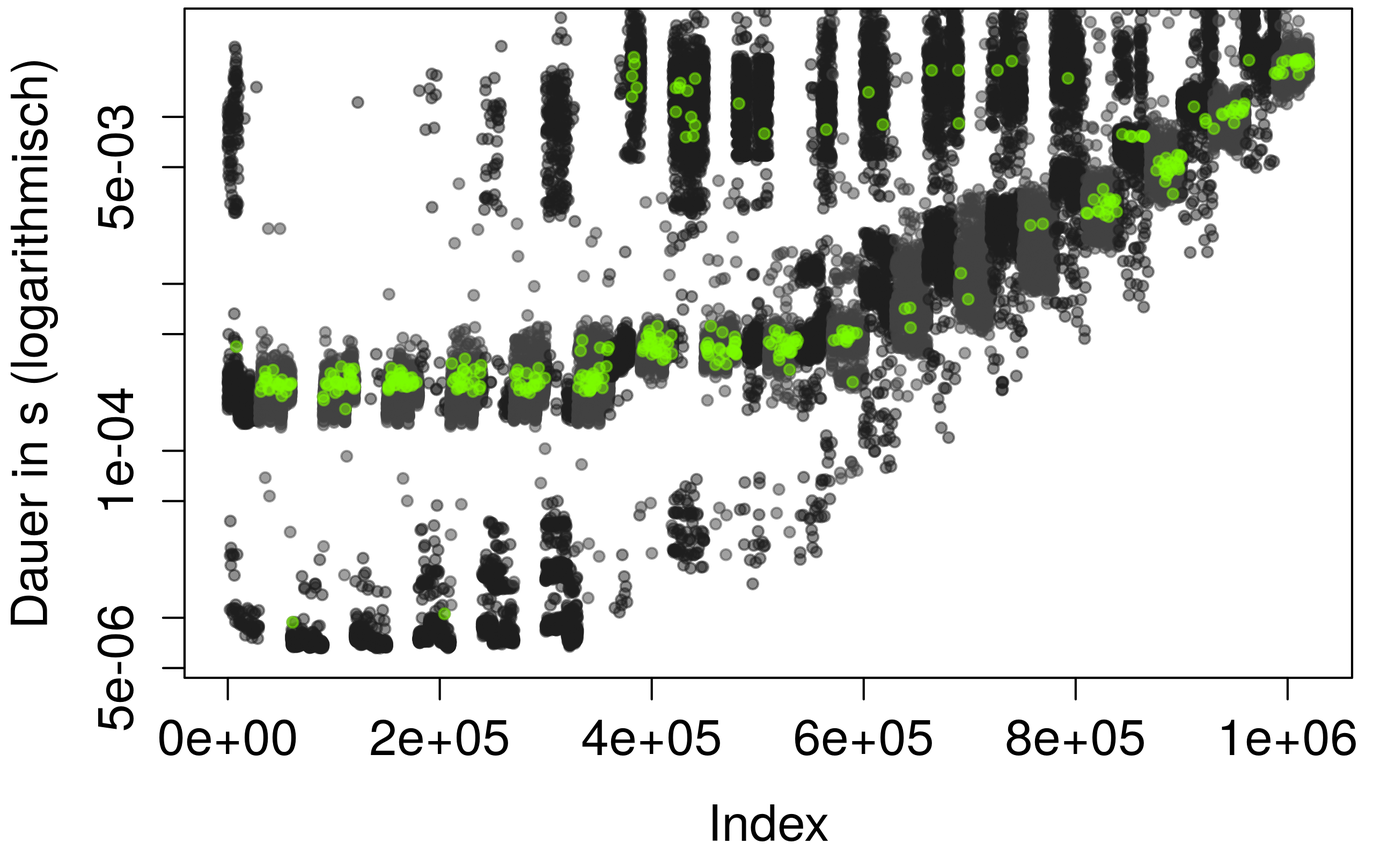
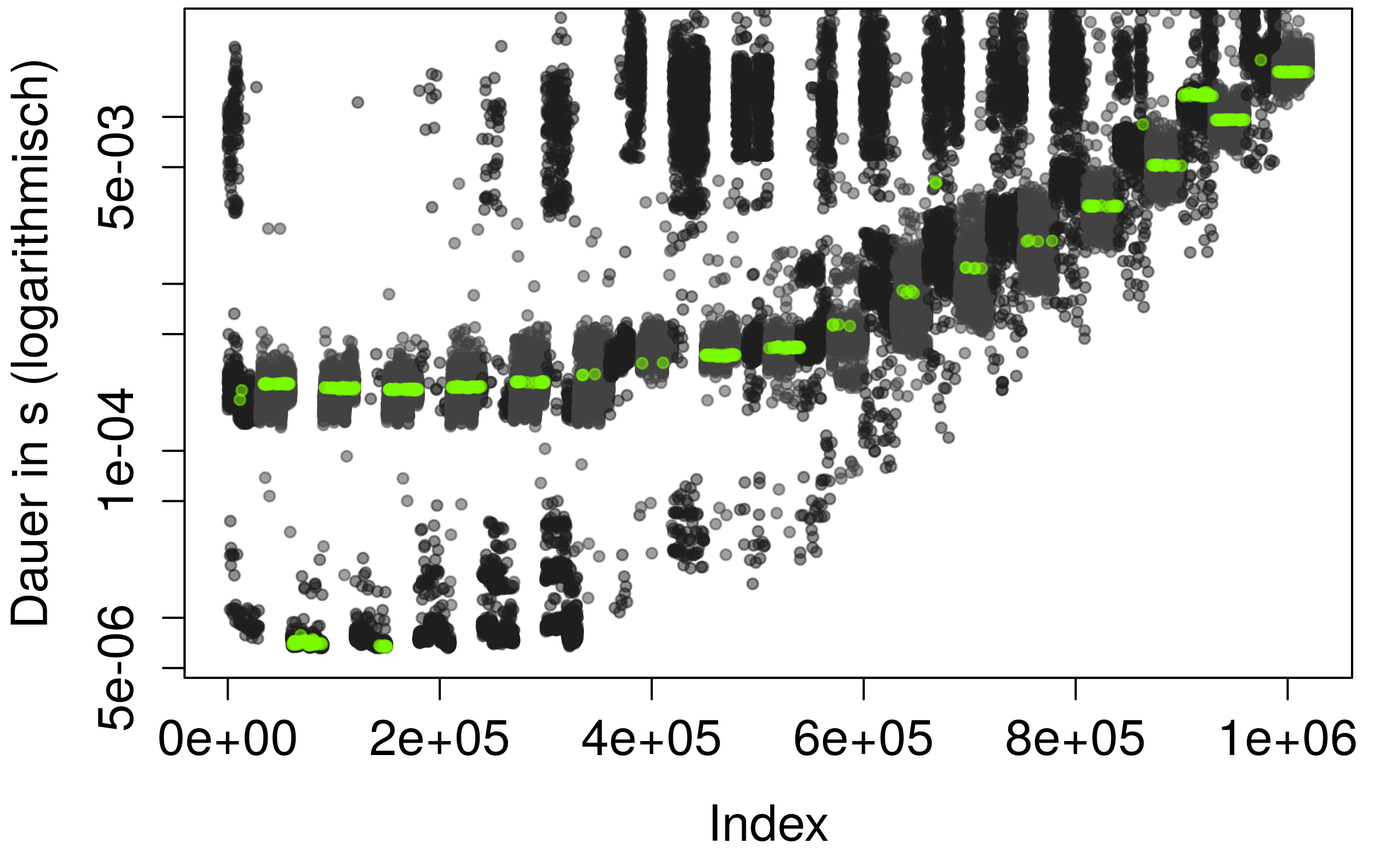
eval die dritte

diff --git a/Thesis/bericht.tex b/Thesis/bericht.tex
@@ -1548,7 +1548,7 @@ Informationen über die Struktur der gefundenen Netze und den Aufwand des Traini
 	\item In Tabelle \ref{tab:results} sind für alle NN-Modelle die Werte der verschiedenen Fehlermetriken angegeben, zusätzlich sind zum Vergleich die Referenzmodelle \textit{Durchschnitt}, \textit{LinReg G} angewendet auf individuelle Messungen und \textit{LinRegFK Median agg} aufgelistet.
 	\item Die Tabelle \ref{tab:outlier} wird für die Analyse der Ausreißervorhersage betrachtet. In der Tabelle sind alle beschriebenen Fehlermetriken zu den NN-Modellen auf SEQ angegeben. Wie bereits beschrieben wurde, gibt es bei den Messungen mit zufälligen Dateizugriffen zu wenig Messungen pro Attribut-Tupel um die Ausreißervorhersage auf diesen Daten sinnvoll zu betrachten.
 \end{itemize}
-Im Folgenden werden zunächst einige allgemeine Beobachtungen zu verschiedenen Bereichen auf den Testergebnissen geschildert, dann wird gesondert auf die Erkenntnisse über die zeitliche Abhängigkeit der E/A-Anfragen im System eingegangen und zuletzt werden die Ergebnisse von den Modellen \textit{NN-Tupel1} und \textit{NN-LinRegFK} im Detail betrachtet.
+Im Folgenden werden zunächst einige Beobachtungen zu verschiedenen Bereichen auf den Testergebnissen geschildert, dann werden im Detail die Ergebnisse von den Modellen \textit{NN-Tupel1} und \textit{NN-LinRegFK} betrachtet.
 
 \begin{table}
 	\scriptsize
@@ -1612,38 +1612,84 @@ Im Folgenden werden zunächst einige allgemeine Beobachtungen zu verschiedenen B
 	\label{tab:outlier}
 \end{table}
 
-\subsubsection{Allgemeine Betrachtungen zu den Ergebnissen}
-Hier sollen zunächst drei Beobachtungen in den erhaltenen Ergebnissen beschrieben werden.
-Zum einen die Struktur der erhaltenen neuronalen Netze und deren Zusammenhang mit dem \textit{Avg-MAPE}, dann die Erkenntnisse, die aus dem Vergleich von \textit{Train-MAPE} und \textit{MAPE} gezogen werden können, dann werden die Ergebnisse von \textit{LinReg G }mit den NN-Modellen verglichen und abschließend auf die Ergebnisse der Ausreißervorhersage eingegangen.
-
-\begin{itemize}
-	\item Die Strukturen der erhaltenen neuronalen Netze sind teilweise recht erstaunlich.
+\subsubsection{Strukturen der neuronalen Netze}
+Die Strukturen der erhaltenen neuronalen Netze sind teilweise recht erstaunlich.
 Einige Netze sind äußerst komplex.
 So hat beispielsweise das erhaltene Netz zu \textit{NN-Tupel1FK} auf RND 17 verdeckte Schichten mit jeweils 28 Neuronen.
 Die Berechnungen der vorhergesagte Laufzeit aus den vier Attributen des Eingabevektors zu diesem Netz sind entsprechend äußerst aufwendig.
 Auch das Lernverfahren zum Erstellen des Netzes selbst war sehr aufwendig und hat über 3.5 Stunden gedauert.
 Trotz dieser komplexen Struktur des Netzes wurde keine zu starke Anpassung an den Trainingsdatensatz betrieben, denn der erreiche \textit{MAPE} auf Trainings- und Testdaten ist mit etwa 24\% gleich. Andere Fälle, wie \textit{NN-Tupel1FK} auf SEQ, oder \textit{NN-Tupel2} auf SEQ und RND weisen ein ähnliches Verhalten auf; die berechneten Netze sind sehr komplex, der Fehler auf Trainings- und Testdaten aber gleichauf.\\
 Daraus kann entweder geschlussfolgert werden, dass es bei einigen Modellierungen sehr aufwendig ist, aus den gegebenen Informationen gute Vorhersagen für die Laufzeiten zu berechnen, oder aber, dass sich Trainings- und Testdatensätze zu ähnlich sind, sodass ein eigentlich überangepasstes Netz gute Ergebnisse erzielt. Es ist gut möglich, dass eine Kombination beider Gründe der Wahrheit am nächsten kommt.\\
-Da die Trainingsdaten 1000 Messungen zu jeder gemessenen Zugriffsgröße enthalten und dies scheinbar der wichtigste Indikator für die Laufzeit der Messungen ist, könnte die Überanpassung an die Trainingsdaten durchaus ein Problem sein.
-	\item Ob die Strukturen der neuronalen Netze zu gleichmäßiger Konvergenz geführt haben, kann an den Werten für \textit{Avg-MAPE} abgelesen werden.\\
+Da die Trainingsdaten 1000 Messungen zu jeder gemessenen Zugriffsgröße enthalten und dies scheinbar der wichtigste Indikator für die Laufzeit der Messungen ist, könnte die Überanpassung an die Trainingsdaten durchaus ein Problem sein.\medskip
+
+Ob die Strukturen der neuronalen Netze zu gleichmäßiger Konvergenz geführt haben, kann an den Werten für \textit{Avg-MAPE} abgelesen werden.\\
 Die meisten Strukturen erreichen konstant gute Ergebnisse über die 12 trainierten Netze.
 Bei der Suche nach guten Parametern für die NN-Modelle ist aber immer wieder aufgefallen, dass einige Strukturen höchst instabil sind.
 Ein solcher Fall ist mit \textit{NN-Tupel1FK} auf RND auch unter den Netzen mit besten \textit{MSPE}-Wert gelandet.
 Während der \textit{MAPE} des erfolgreichen Netzes nur 24\% beträgt, beträgt der durchschnittliche \textit{MAPE} über die 12 Netze 3782678\%.
 Die Ergebnisse einiger Strukturen von neuronalen Netzen hängen also sehr stark von der Initialisierung der Kantengewichte ab.\\
 Aus dieser Beobachtung wird klar, für reproduzierbare und verlässliche Ergebnisse in den neuronalen Netzen, sollte in Betracht gezogen werden, nicht nur nach einem Netz mit den besten Ergebnissen zu suchen, sondern auch die gemittelten Ergebnisse über eine Mehrzahl Netze mit unterschiedlicher Initialisierung zu berücksichtigen.
-	\item Wie in \ref{back_nn} geschrieben wurde, können künstliche neuronale Netze nicht-lineare Zusammenhänge modellieren.
-Außer \textit{NN-Tupel2} auf SEQ gelingt es allen NN-Modellen bessere Ergebnisse, als \textit{LinReg G} zu erzielen. Dies bestätigt die zuvor gewonnene Einsicht, dass lineare Zusammenhänge unzureichend für die Beschreibung der E/A-Leistung der Messungen sind.
-Die nicht-linearen Abhängigkeiten können von den NN-Modellen für bessere Leistungsvorhersagen ausgenutzt werden.
-	\item Die 0.1 und 0.9 Quantile der Laufzeiten zu den Attribut-Tupeln vorherzusagen gelingt, außer bei \textit{NN-Tupel2}, recht gut und mit wesentlich kleineren Fehlerwerten, als die Vorhersage der tatsächlichen Laufzeiten.
-	Dies macht auch Sinn, denn für die Quantile gibt es nur jeweils einen Wert pro Attribut-Tupel, die sich die neuronalen Netze \glqq merken \grqq{}müssen.\\
-	Für eine korrekte Ausreißervorhersage müssen die Modelle zwei Dinge erfüllen, zum einen müssen die Quantile richtig approximiert werden und zum anderen müssen zu den Ausreißern auch sehr hohe (bzw. niedrige) Laufzeiten vorhergesagt werden.\\
-	So erreicht \textit{NN-Tupel1} zwar eine gute Näherung der Quantile, macht aber sehr konservative Vorhersagen, wie auch am \textit{In-Range}-Wert in Tabelle \ref{tab:results}a von 100\% erkannt werden kann. Daher sagt \textit{NN-Tupel1} keinen einzigen Ausreißer korrekt oder falsch voraus.\\
-	Die beiden Modelle \textit{NN-Tupel2} und \textit{NN-EMA} mit zeitabhängigen Attributen haben im Gegensatz zu \textit{NN-Tupel1} eine Grundlage für die Vorhersage von Ausreißern, da sie mit diesen Informationen innerhalb der Messungen zu einem Attribut-Tupel unterscheiden können.
-	Tatsächlich sagen sie jeweils einige Ausreißer vorher und liegen mit diesen Vorhersagen einige Male richtig, aber sehr oft auch falsch (11.12\% richtig Positiv und 8.43\% falsch Positiv klassierte Ausreißer von \textit{NN-Tupel2}; 4.59\% richtig Positive und 3.41\% falsch Postive von \textit{NN-EMA}). Da die Anzahl Nicht-Ausreißer vier mal größer ist, als die Anzahl Ausreißer, werden wesentlich mehr Nicht-Ausreißer als Ausreißer deklariert, als Ausreißer auch als solche erkannt werden. Dies korrespondiert mit den hohen Werten für \textit{MSPE} und \textit{Max} der beiden Modelle.\\
-	Wie zu erwarten war, können die beiden Modelle \textit{NN-LinRegFK} und \textit{NN-Tupel1FK} mit Hilfe der Fehlerklassen am erfolgreichsten Ausreißer vorhersagen. (12 * 20 = 240 vs 2 * 80 = 160)
 
-\end{itemize}
+\subsubsection{Betrachtung der linearen Abhängigkeit}
+Wie in \ref{back_nn} geschrieben wurde, können künstliche neuronale Netze nicht-lineare Zusammenhänge modellieren.
+Außer \textit{NN-Tupel2} auf SEQ gelingt es allen NN-Modellen bessere Ergebnisse, als \textit{LinReg G} zu erzielen. Dies bestätigt die zuvor gewonnene Einsicht, dass lineare Zusammenhänge unzureichend für die Beschreibung der E/A-Leistung der Messungen sind.
+Die nicht-linearen Abhängigkeiten können von den NN-Modellen für bessere Leistungsvorhersagen ausgenutzt werden.\medskip
+
+\begin{figure}
+	\centering
+	\subfloat{
+		\includegraphics[width=.8\textwidth]{Bilder/aggregated_net.png}
+	}
+	\caption{Darstellung des neuronalen Netzes von \textit{NN-Tupel1 agg} auf RND}
+	\label{fig:agg_net}
+\end{figure} 
+
+Auffällig ist sind die vergleichsweise kleinen Netze von \textit{NN-Tupel1 agg}.
+Auf RND kommt das Modell mit einer einzigen verdeckten Schicht mit einem Neuron aus.
+Mit einer solchen Struktur kann das Netz nur lineare Zusammenhänge des Eingangsvektors mit der Laufzeit ausnutzen, denn jeder Wert des Vektors wird mit nur einem Kantengewicht verrechnet und dann in dem einen Neuron der verdeckten Schicht zusammengerechnet.
+Dieses neuronale Netz macht daher auch nichts anderes als eine lineare Regression, es gelingt im durch das aufwendige Lernverfahren allerdings eine wesentlich bessere Approximation der Laufzeiten zu erreichen als dies \textit{LinReg G} gelungen ist.\medskip
+
+Um dieses Verhalten näher zu untersuchen sind in Abbildung \ref{fig:lin_vergleich} die Graphen der Vorhersagen zu \textit{LinReg G} und \textit{NN-Tupel1 agg} dargestellt.
+Es ist gut zu erkennen, dass \textit{NN-Tupel1 agg} die Information über den Operationstypen sehr gut ausnutzen kann, um unterschiedliche Vorhersagen für lesende und schreibende Zugriffe zu machen.
+Dies war dem Modell \textit{LinReg G+D+O} zuvor nicht gelungen.
+RND kann also doch besser als zuvor gedacht in mit einem linearen Zusammenhang approximiert werden.
+Das Modell \textit{NN-Tupel1} kann dennoch mit einem aufwendigeren neuronalen Netz nicht-lineare Abhängigkeiten ausnutzen und so mit einem MAPE-Wert von 103\% gegenüber 270\% und einem \textit{RQ3}-Wert von 70\% gegenüber 170\% wesentlich bessere Ergebnisse erzielen.
+\begin{figure}
+	\centering
+	\subfloat[Vorhersage der Laufzeiten auf RND von \textit{LinReg G}]{
+		\includegraphics[width=.43\textwidth]{Bilder/Plots/baselines/plot_rnd_linreg_Size.png}
+	}
+	\hfill
+	\subfloat[Vorhersagen der Laufzeiten auf RND von \textit{NN-Tupel1 agg}]{
+		\includegraphics[width=.43\textwidth]{Bilder/Plots/models/plot_onlyPred_aggregated_Duration_rnd.png}
+	}
+	\caption{Vergleich der Modelle \textit{LinReg G} und \textit{NN-Tupel1 agg} auf RND}
+	\label{fig:lin_vergleich}
+\end{figure} 
+\clearpage
+\subsubsection{Analyse der Ausreißervorhersage}
+Es soll hier auf einige Beobachtungen aus der Tabelle \ref{tab:outlier} eingegangen werden.
+Die 0.1 und 0.9 Quantile der Laufzeiten zu den Attribut-Tupeln vorherzusagen gelingt, außer bei \textit{NN-Tupel2}, recht gut und mit wesentlich kleineren Fehlerwerten, als die Vorhersage der tatsächlichen Laufzeiten.
+Dies macht auch Sinn, denn für die Quantile gibt es nur jeweils einen Wert pro Attribut-Tupel, die sich die neuronalen Netze \glqq merken \grqq{}müssen.\\
+Für eine korrekte Ausreißervorhersage müssen die Modelle zwei Dinge erfüllen, zum einen müssen die Quantile richtig approximiert werden und zum anderen müssen zu den Ausreißern auch sehr hohe (bzw. niedrige) Laufzeiten vorhergesagt werden.\\
+So erreicht \textit{NN-Tupel1} zwar eine gute Näherung der Quantile, macht aber sehr konservative Vorhersagen, wie auch am \textit{In-Range}-Wert in Tabelle \ref{tab:results}a von 100\% erkannt werden kann. Daher sagt \textit{NN-Tupel1} keinen einzigen Ausreißer korrekt oder falsch voraus.\\
+Die beiden Modelle \textit{NN-Tupel2} und \textit{NN-EMA} mit zeitabhängigen Attributen haben im Gegensatz zu \textit{NN-Tupel1} eine Grundlage für die Vorhersage von Ausreißern, da sie mit diesen Informationen innerhalb der Messungen zu einem Attribut-Tupel unterscheiden können.
+Tatsächlich sagen sie jeweils einige Ausreißer vorher und liegen mit diesen Vorhersagen einige Male richtig, aber sehr oft auch falsch (11.12\% richtig Positiv und 8.43\% falsch Positiv klassierte Ausreißer von \textit{NN-Tupel2}; 4.59\% richtig Positive und 3.41\% falsch Postive von \textit{NN-EMA}). Da die Anzahl Nicht-Ausreißer vier mal größer ist, als die Anzahl Ausreißer, werden wesentlich mehr Nicht-Ausreißer als Ausreißer deklariert, als Ausreißer auch als solche erkannt werden. Dies korrespondiert mit den hohen Werten für \textit{MSPE} und \textit{Max} der beiden Modelle.\\
+Wie zu erwarten war, können die beiden Modelle \textit{NN-LinRegFK} und \textit{NN-Tupel1FK} mit Hilfe der Fehlerklassen am erfolgreichsten Ausreißer vorhersagen. 
+\textit{NN-LinRegFK} hat 26664 der 167175 (15.95\%) der Ausreißer korrekt identifiziert.
+Gleichzeitig wurden allerdings 36069 der 670425 (5.38\%) Nicht-Ausreißer fälschlicherweise als Ausreißer klassiert.
+Am besten hat \textit{NN-Tupel1FK} Ausreißer erkannt mit 20713 korrekt erkannten Ausreißern und nur 18772 falsch klassierten Nicht-Ausreißern, hat dieses Modell als einziges mehr Ausreißer korrekt als falsch vorhergesagt.\medskip
+
+Die erfolgreichere Ausreißervorhersage von \textit{NN-Tupel1FK} gegenüber \textit{NN-LinRegFK} kann durch zwei Interpretationen erklärt werden:
+\begin{enumerate}
+	\item Die aus \textit{NN-Tupel1} gewonnenen Fehlerklassen beschreiben die E/A-Pfade besser als die \textit{LinReg G}-Fehlerklassen und können somit auch bei der Approximation der Laufzeiten der schwierig vorherzusagenden Ausreißer helfen.
+	\item \textit{NN-Tupel1} und \textit{NN-Tupel1FK} beruhen auf einer sehr ähnlichen Modellierung.
+	Während Ersteres von dem Attribut-Tupel zu jeder Messung weiß, kennt Letzteres noch die \textit{NN-Tupel1}-Fehlerklassen.
+	\textit{NN-Tupel1FK} würde also idealerweise zunächst mit dem Attribut-Tupel intern die gleiche Vorhersage wie \textit{NN-Tupel1} machen, dann die Fehlerklassen in ihre mittleren Residuen übersetzen und zu dieser Vorhersage hinzurechnen.
+	Es ist recht wahrscheinlich, dass die \textit{NN-Tupel1FK}-Netze eine derartige Berechnung der Laufzeiten vornehmen. In dem Fall stellen die \textit{NN-Tupel1}-Fehlerklassen nicht unbedingt eine bessere Repräsentation der E/A-Pfade da, sondern sie können nur besser in die zugrundeliegenden Residuen entschlüsselt werden.
+\end{enumerate}
+Damit sich wirklich nur der Zusammenhang zwischen Fehlerklassen und E/A-Pfaden in den verbesserten Vorhersagen widerspiegelt, sollte in Betracht gezogen werden unterschiedliche Modellierungen zur Erstellung der Fehlerklassen und für die Nutzung dieser zu verwenden.
+
 \subsubsection{Betrachtung der zeitlichen Abhängigkeit der Laufzeiten}
 \textit{NN-EMA} und \textit{NN-Tupel2} sind die beiden Modelle, die zeitlich periodisches Verhalten in den Messreihen ausnutzen sollten.
 Die Ergebnisse dieser beiden Modelle soll hier analysiert werden.\medskip
@@ -1665,24 +1711,35 @@ Zudem sind die \textit{RG3}-Werte von \textit{NN-EMA} und \textit{NN-Tupel2} auf
 
 Es scheint also so sein, dass das in Kapitel \ref{eval:exploration} beobachtete periodische Verhalten im E/A-System von \textit{NN-Tupel2}, insbesondere aber von \textit{NN-EMA}, für bessere Laufzeit-Vorhersagen ausgenutzt werden kann.
 Bei einigen Messungen, bei denen ein zeitlich abhängiges Verhalten von den Modellen angenommen wird, wurde die Vorhersage durch diese Annahme negativ beeinflusst, sodass die Ergebnisse der beiden Modelle gemittelt über den gesamten Testdatensatz schlechter sind als die des Modells ohne Kenntnis der periodischen Zusammenhänge.
-\subsubsection{Detailbetrachtung: NN-Tupel1}
-Als erstes wird das Modell \textit{Tupel1} untersucht. 
-Das erfolgreichste neuronale Netz des Modells auf den sequentiellen Daten hat 12 verdeckte Schichten mit jeweils 8 Neuronen, es wurde über 24 Minuten in 1444 Iterationen entwickelt.
-Trotz der höheren Varianz der Messdaten auf RND kommt das Modell hier mit 4 verdeckten Schichten mit 5 Neuronen aus, zudem wurde es schneller berechnet. Da die Leistungswerte des Modells gleichzeitig schlechter sind, scheint die Modellierung für dieses Problems nicht so erfolgreich zu sein, sodass ein simples abstrakteres Netz einem Komplexeren überlegen ist, das versuchen würde, die Datenstruktur detailreicher abzubilden.
-Das Modell scheint stärker von der Tiefe der Schichten des neuronalen Netzes zu profitieren, als an der Anzahl Neuronen. 
 
-Zu den sequentiell durchgeführten Messungen kann das Modell gut zwischen den Zugriffsgrößen und Operationstypen differenzieren (\ref{fig:tupel1_on_seq}a ). Recht zuverlässlich werden die Laufzeit-Häufungen zu den verschiedenen Attribut-Tupels mit einem Wert innerhalb der Häufung approximiert.
-Innerhalb eines Attribut-Tupels kann das Modell jedoch keine weitere Differenzierung durchführen.
-Stattdessen wird für eine Häufung immer der selbe Wert vorhergesagt.
-Das zeigt sich auch am Wert für \textit{In-range}, der angibt wie viele Vorhersagen zwischen den Quantilen 0.1 und 0.9 der Laufzeit des Attribut-Tupels gelandet sind. Da das Modell nur eine Art Mittelwert vorhersagt, ist der Wert für \textit{In-range} folgerichtig bei 100\%.
-Dieses Verhalten entspricht dem des Basis-Modells \textit{Median}, tatsächlich ist der entsprechende Graph \ref{fig:zeit_baselines_rnd}c mit dem zu \textit{Tupel1} kaum zu unterscheiden.
-Auch die Leistungswerte sind vergleichbar. Während \textit{Tupel1} einen etwas besseren MSPE mit 22\% zu 24\% hat, hat \textit{Median} mit einem MAPE von 11.1\% gegenüber 14.1\% leicht die Nase vorn. 
-Dieses ähnliche Verhalten entspricht auch der Modellierung. \textit{Tupel1} stehen keine Informationen zur Unterscheidung der Attribut-Tupels zur Verfügung, sodass intern ein möglichst guter Mittelwert zur Laufzeit jedes Sets gebildet werden muss. Dies gelingt \textit{Tupel1} mit dem kleinen Trainingsdatensatz in etwa genauso gut, wie \textit{Median} mit Kenntnis sämtlicher Messungen.
-Der Modellierung entsprechend macht \textit{Tupel1} ungenaue Vorhersagen für Attribut-Tupels, mit
-großer Varianz in den Zugriffszeiten. 
-Dies lässt sich in \ref{fig:tupel1_seq}c an der Markierung der nach oben gestreuten Laufzeiten erkennen.
-Die besten Vorhersagen werden für Messungen gemacht, die möglichst der mittleren Dauer ihres Attribut-Tupels entsprechen.
-Das entwickelte neuronale Netz zeigt sich sehr zuverlässlich. Der \textit{MAPE} auf den Trainingsdatensatz und der durchschnittliche \textit{MAPE} über identische Netze ist sehr nah am \textit{MAPE} des betrachteten Netz.
+\subsubsection{Detailbetrachtung: NN-Tupel1}
+Das Modell \textit{NN-Tupel1} gehört auf beiden Datensätzen zu den besten Modellen, die keine Fehlerklassen nutzen, es soll nun im Detail untersucht werden.
+Das erfolgreichste neuronale Netz des Modells auf den sequentiellen Daten hat 12 verdeckte Schichten mit jeweils 8 Neuronen, es wurde über 24 Minuten in 1934 Iterationen entwickelt.
+Trotz der höheren Varianz der Messdaten auf RND kommt das Modell hier mit 4 verdeckten Schichten mit 5 Neuronen aus, zudem wurde es mit nur 1310 Iterationen über knapp 4 Minuten wesentlich schneller berechnet.
+Da die Leistungswerte des Modells auf RND schlechter sind, scheint die Modellierung für dieses Problems nicht so erfolgreich zu sein, sodass ein simples Netz, dass stärker von den Trainingsdaten abstrahiert, einem Komplexeren überlegen ist.
+Das Modell scheint stärker von der Tiefe der Schichten des neuronalen Netzes zu profitieren, als an der Anzahl Neuronen.\medskip
+
+Die Abbildungen \ref{fig:tupel1_on_seq} und \ref{fig:tupel1_on_rnd} visualisieren die Vorhersagen von \textit{NN-Tupel1} auf SEQ respektive RND.
+In den ersten beiden Graphen werden, wie zuvor bei der Analyse der Referenzmodelle, die Vorhersagen in blau gegenüber den tatsächlichen Laufzeiten in dunkelgrau für lesende und hellgrau für schreibende Zugriffe dargestellt.
+Abbildung \ref{fig:tupel1_on_seq}b zeigt die Vorhersagen des Modells zu den Quantilen für die Ausreißervorhersage.
+Die letzten beiden Diagramme heben die Messungen hervor dessen Laufzeiten zu den 1\% der Vorhersagen gehören, die mit den größten bzw. kleinsten Residuen vom Modell bestimmt wurden.\medskip
+
+Zunächst werden die Vorhersagen von \textit{NN-Tupel1} auf SEQ analysiert.
+In Abbildung \ref{fig:tupel1_on_seq}a ist gut zu erkennen, dass es dem Modell gut gelingt, zwischen den Zugriffsgrößen und Operationstypen zu differenzieren und dadurch recht zuverlässig einen guten Mittelwert zu den verschiedenen Attribut-Tupeln vorhersagt.
+Innerhalb eines Attribut-Tupels kann das Modell jedoch keine weitere Differenzierung durchführen, stattdessen wird für die selben Attribute immer der selbe Wert vorhergesagt.
+Das zeigt sich auch am Wert für \textit{In-range}, der angibt wie viele Vorhersagen zwischen den Quantilen 0.1 und 0.9 der Laufzeit des Attribut-Tupels gelandet sind.
+Da das Modell nur eine Art Mittelwert vorhersagt, ist der Wert für \textit{In-range} folgerichtig bei 100\%.
+Dieses Verhalten entspricht dem des Referenzmodells \textit{Median agg}, tatsächlich ist der entsprechende Graph \ref{fig:zeit_baselines_seq}c von dem zu \textit{NN-Tupel1} kaum unterscheidbar.
+Auch die Leistungswerte sind vergleichbar. Während \textit{NN-Tupel1} einen etwas besseren \textit{MSPE} mit 22\% zu 24\% hat, hat \textit{Median} mit einem MAPE von 11.1\% gegenüber 14.1\% leicht die Nase vorn. 
+Dieses ähnliche Verhalten  der beiden Modelle macht auch im Rahmen der Modellierung von \textit{NN-Tupel1} Sinn.
+Dem Modell stehen keine Informationen zur Unterscheidung der Attribut-Tupel zur Verfügung, sodass intern ein möglichst guter Mittelwert zur Laufzeit jedes Sets gebildet werden muss. Dies gelingt \textit{NN-Tupel1} mit seinem Trainingsdatensatz in etwa genauso gut, wie \textit{Median agg} unter Kenntnis sämtlicher Messungen. Das NN-Modell kann also sehr gut von seinem Auszug der Messdaten die Laufzeiten ungesehener Messungen interpolieren.\medskip
+
+Wie bereits in Tabelle \ref{tab:outlier} gesehen wurde, kann \textit{NN-Tupel1} die 0.1 und 0.9 Quantile der Laufzeiten sehr gut abschätzen.
+In Abbildung \ref{fig:tupel1_on_seq}b ist entsprechend eine gute Eingrenzung der Messungen durch die eingezeichneten roten und grünen Punkte zu sehen.\medskip
+
+Der Modellierung entsprechend macht \textit{NN-Tupel1} ungenaue Vorhersagen für Attribut-Tupel, mit großer Varianz in den Zugriffszeiten. 
+Dies lässt sich in \ref{fig:tupel1_seq}c an der Markierung der nach oben gestreuten Laufzeiten erkennen.\\
+Die besten Vorhersagen werden für Messungen gemacht, die möglichst genau der mittleren Dauer ihres Attribut-Tupels entsprechen.\medskip
 
 \begin{figure}
 	\centering
@@ -1690,114 +1747,47 @@ Das entwickelte neuronale Netz zeigt sich sehr zuverlässlich. Der \textit{MAPE}
 		\includegraphics[width=.43\textwidth]{Bilder/Plots/models/plot_onlyPred_tuple1_Duration_seq.png}
 	}
 	\hfill
-	\subfloat[Vorhersagen der beiden Quantile 0.1 in grün und 0.9 in rot]{
+	\subfloat[Näherungen des Modells zu den Quantilen der Laufzeiten, Quantil 0.1 in grün und Quantil 0.9 in rot]{
 		\includegraphics[width=.43\textwidth]{Bilder/Plots/models/plot_tuple1_Duration_seq.png}
 	}\\
-	\subfloat[Laufzeiten die mit höchster relativer Modellabweichung vorhergesagt wurden in rot]{
+	\subfloat[Die am schlechtesten vorhergesagten Laufzeiten sind in grün markiert]{
 		\includegraphics[width=.43\textwidth]{Bilder/Plots/models/plot_biggest1_errors_tuple1_Duration_seq.png}
 	}
 	\hfill
-	\subfloat[Laufzeiten geringster relativer Modellabweichung in grün]{
+	\subfloat[Die am besten vorhergesagten Laufzeiten sind in grün markiert]{
 		\includegraphics[width=.43\textwidth]{Bilder/Plots/models/plot_smallest1_errors_tuple1_Duration_seq.png}
 	}
-	\caption{Modell \textit{Tupel1} auf SEQ}
+	\caption{Modell \textit{NN-Tupel1} angewendet auf SEQ}
 	\label{fig:tupel1_seq}
 \end{figure} 
 
-Bei der Leistungsvorhersage auf cached-off0-rnd setzt sich Tupel1 mit 45\% MAPE und 122\% MSPE nun wesentlich vom linearen Modell mit 5019.1\% und 13188\% ab. Hier war LinReg G nicht mehr in der Lage die Häufungspunkte korrekt zu differenzieren. Tupel1 hingegen modelliert alle Häufungen korrekt (\ref{fig:tupel1_on_rnd}). Dadurch dass die Häufungen bei den randomisierten Messungen nicht mehr alle dem selben Attribut-Tupel angehören, sondern sich durch die Zugriffsort in der Datei unterscheiden, hat Tupel1 Informationen, um innerhalb einer Häufung verschiedene Vorhersagen zu treffen. Die Abhängigkeit der Laufzeit von Delta-Abstand ist jedoch sehr gering, sodass sich die Varianz der Vorhersagen in Grenzen halten. Die Stärken und Schwächen des Modells liegen
-in den selben Bereichen, wie bei den sequentiellen Messungen.\\
-Das Unvermögen innerhalb eines Attribut-Tupels zu unterscheiden spiegelt sich auch darin wieder, dass 100\% der Vorhersagen von Tupel1 auf cached-off0-seq zwischen den tatsächlichen 0.1 und 0.9 Quantil des Sets liegt, idealerweise wenn alle Ausreißer richtig erkannt werden würden, wäre dieser Wert bei 80\%. Entsprechend sagt das Modell keine Ausreißer voraus, sodass TP und FP bei 0\% liegen. Auf cached-off0-rnd sind diese Werte nicht sehr Ausdrucksstark, denn zu jedem Attribut-Tupel gibt es jeweils nur ein bis drei Messungen, sodass die Quantile recht willkürlich sind.
-Wie erwartet fällt die Vorhersage der Quantile auf cached-off0-seq leicht. Dort gibt es bloß 76 verschiedene Attribut-Tupels, das Netz muss die entsprechenden Werte bloß \glqq merken\grqq{} und richtig zuordnen. Dies gelingt dem Netz mit wenigen Prozent Abweichung. 
-Auf cached-off0-rnd dagegen gibt es 260 000 unterschiedliche Attribut-Tupels, sodass das Netz mit seinem Trainingsdatenausschnitt von 40 000 Messungen nicht alle Sets gesehen hat und interpolieren muss. Die Fehlerwerte sind entsprechend ein vielfaches größer.\\
-Insgesamt zeigt das Modell trotz seiner Einfachheit bereits eine gute Leistung bei der Vorhersage der Laufzeiten der E/A-Aufrufe. Es kann, ähnlich wie die Modelle mit linearer Regression, nicht innerhalb eines Attribut-Tupels differenzieren, ist diesem aber durch die Modellierung nicht-linearer Zusammenhänge und durch ein besseres \glqq Erinnerungsvermögen\grqq{} überlegen. 
+Nun werden die Vorhersagen von \textit{NN-Tupel1} auf RND genauer betrachtet.
+
+Im Vergleich mit \textit{NN-Tupel1 agg} (Abbildung \ref{fig:lin_vergleich}b ) kann in Abbildung \ref{fig:tupel1_on_rnd}a gut erkannt werden, wie das neuronale Netz ausnutzt, dass es nicht an lineare Zusammenhänge gebunden ist.
+Die Laufzeiten der lesenden Zugriffe machen ab einer gewissen Zugriffsgröße einen Sprung nach oben. \textit{NN-Tupel1} kann diesen Sprung wesentlich besser in seine Vorhersagen mit einbeziehen, als das Netz zu \textit{NN-Tupel1 agg} mit nur einer verdeckten Schicht mit einem Neuron.
+Die schreibenden Zugriffe weisen keinen solchen Sprung in den Laufzeiten auf und werden scheinbar mit einer linearen Gerade von \textit{NN-Tupel1} approximiert.\\
+Dadurch dass die Messungen mit gleichen Zugriffsgrößen und Operationstypen bei den randomisierten Zugriffen nicht mehr alle dem selben Attribut-Tupel angehören, sondern sich durch das Delta-Offset unterscheiden, stehen \textit{NN-Tupel1} Informationen zu Verfügung, um innerhalb einer Messreihe unter den Messungen zu unterscheiden.
+Die Abhängigkeit der Laufzeit von Delta-Abstand scheint jedoch weiterhin sehr gering, sodass sich die Varianz der Vorhersagen in Grenzen halten.
+Es ist aber durchaus zu erkennen, dass sich die gezeichneten Punkte einer Messreihe nicht mehr alle exakt horizontal zueinander sind, sondern teilweise (insbesondere bei den kleinsten lesenden Zugriffen) eine Streuung aufweisen.\medskip
+
+Die Stärken und Schwächen des Modells liegen
+in den selben Bereichen, wie bei den sequentiellen Messungen.
 
 \begin{figure}
 	\centering
 	\subfloat[Vorhersage der Laufzeiten]{
 		\includegraphics[width=.43\textwidth]{Bilder/Plots/models/plot_onlyPred_tuple1_Duration_rnd.png}
 	}\\
-	\subfloat[Laufzeiten die mit höchster relativer Modellabweichung vorhergesagt wurden in rot]{
+	\subfloat[Die am schlechtesten vorhergesagten Laufzeiten sind in grün markiert]{
 		\includegraphics[width=.43\textwidth]{Bilder/Plots/models/plot_biggest1_errors_tuple1_Duration_rnd.png}
 	}
 	\hfill
-	\subfloat[Laufzeiten geringster relativer Modellabweichung in grün]{
+	\subfloat[Die am besten vorhergesagten Laufzeiten sind in grün markiert]{
 		\includegraphics[width=.43\textwidth]{Bilder/Plots/models/plot_smallest1_errors_tuple1_Duration_rnd.png}
 	}
-	\caption{Modell \textit{Tupel1} auf RND}
+	\caption{Modell \textit{NN-Tupel1} angewendet auf RND}
 	\label{fig:tupel1_rnd}
 \end{figure} 
-
-\begin{figure}
-	\centering
-	\subfloat[Vorhersage der Laufzeiten]{
-		\includegraphics[width=.43\textwidth]{Bilder/Plots/models/plot_onlyPred_aggregated_Duration_seq.png}
-	}
-	\subfloat[Vorhersagen der beiden Quantile 0.1 in grün und 0.9 in rot]{
-		\includegraphics[width=.43\textwidth]{Bilder/Plots/models/plot_aggregated_Duration_seq.png}
-	}\\
-	\subfloat[Laufzeiten die mit geringster Modellabweichung vorhergesagt wurden]{
-		\includegraphics[width=.43\textwidth]{Bilder/Plots/models/plot_biggest1_errors_aggregated_Duration_seq.png}
-	}
-	\subfloat[Laufzeiten mit höchster Modellabweichung]{
-		\includegraphics[width=.43\textwidth]{Bilder/Plots/models/plot_smallest1_errors_aggregated_Duration_seq.png}
-	}
-	\caption{Modell \textit{Tupel1 Aggregiert} auf SEQ}
-	\label{fig:aggregated_seq}
-\end{figure} 
-
-\begin{figure}
-	\centering
-	\subfloat[Vorhersage der Laufzeiten]{
-		\includegraphics[width=.43\textwidth]{Bilder/Plots/models/plot_onlyPred_aggregated_Duration_rnd.png}
-	}
-	\subfloat[Vorhersagen der beiden Quantile 0.1 in grün und 0.9 in rot]{
-		\includegraphics[width=.43\textwidth]{Bilder/Plots/models/plot_DurationToPredSorted_onlyPred_aggregated_Duration_rnd.png}
-	}\\
-	\subfloat[Laufzeiten die mit geringster Modellabweichung vorhergesagt wurden]{
-		\includegraphics[width=.43\textwidth]{Bilder/Plots/models/plot_biggest1_errors_aggregated_Duration_rnd.png}
-	}
-	\subfloat[Laufzeiten mit höchster Modellabweichung]{
-		\includegraphics[width=.43\textwidth]{Bilder/Plots/models/plot_smallest1_errors_aggregated_Duration_rnd.png}
-	}
-	\caption{Modell \textit{Tupel1 Aggregiert} auf RND}
-	\label{fig:aggregated_rnd}
-\end{figure}
-
-\begin{figure}
-	\centering
-	\subfloat[Vorhersage der Laufzeiten]{
-		\includegraphics[width=.43\textwidth]{Bilder/Plots/models/plot_onlyPred_throughput_ema_Duration_seq.png}
-	}
-	\subfloat[Vorhersagen der beiden Quantile 0.1 in grün und 0.9 in rot]{
-		\includegraphics[width=.43\textwidth]{Bilder/Plots/models/plot_throughput_ema_Duration_seq.png}
-	}\\
-	\subfloat[Laufzeiten die mit geringster Modellabweichung vorhergesagt wurden]{
-		\includegraphics[width=.43\textwidth]{Bilder/Plots/models/plot_biggest1_errors_throughput_ema_Duration_seq.png}
-	}
-	\subfloat[Laufzeiten mit höchster Modellabweichung]{
-		\includegraphics[width=.43\textwidth]{Bilder/Plots/models/plot_smallest1_errors_throughput_ema_Duration_seq.png}
-	}
-	\caption{Modell \textit{Tupel1 EMA Durchsatz} auf SEQ}
-	\label{fig:ema_seq}
-\end{figure} 
-
-\begin{figure}
-	\centering
-	\subfloat[Vorhersage der Laufzeiten]{
-		\includegraphics[width=.43\textwidth]{Bilder/Plots/models/plot_onlyPred_aggregated_Duration_rnd.png}
-	}
-	\subfloat[Vorhersagen der beiden Quantile 0.1 in grün und 0.9 in rot]{
-		\includegraphics[width=.43\textwidth]{Bilder/Plots/models/plot_aggregated_Duration_rnd.png}
-	}\\
-	\subfloat[Laufzeiten die mit geringster Modellabweichung vorhergesagt wurden]{
-		\includegraphics[width=.43\textwidth]{Bilder/Plots/models/plot_biggest1_errors_aggregated_Duration_rnd.png}
-	}
-	\subfloat[Laufzeiten mit höchster Modellabweichung]{
-		\includegraphics[width=.43\textwidth]{Bilder/Plots/models/plot_smallest1_errors_aggregated_Duration_rnd.png}
-	}
-	\caption{Modell \textit{Tupel1 EMA Durchsatz} auf RND}
-	\label{fig:ema_rnd}
-\end{figure}
 
 \paragraph{Zusammenfassung:}
 \textit{
